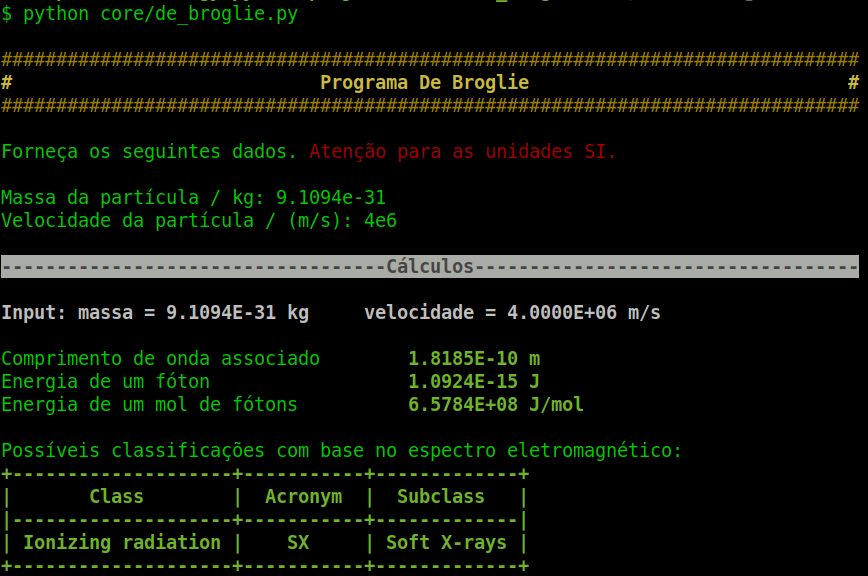
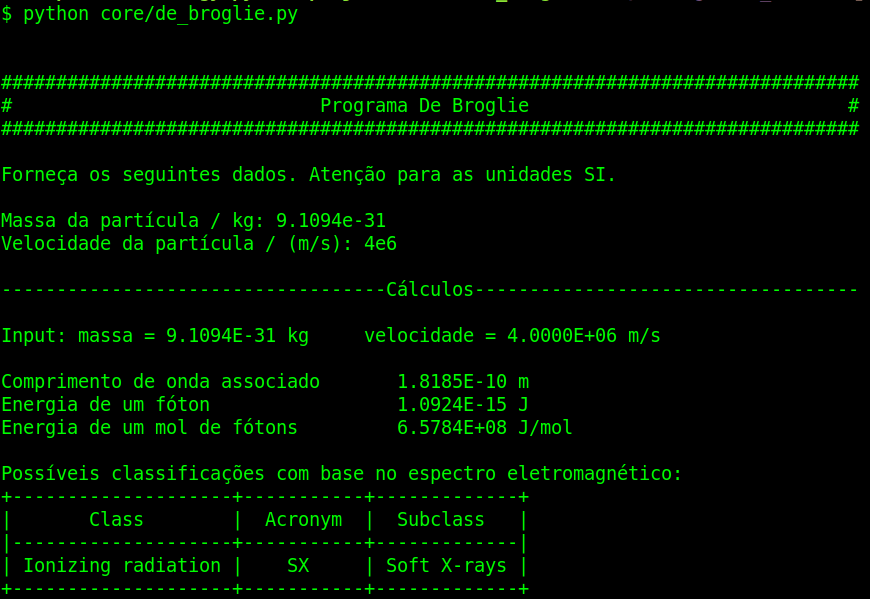
Atualizaçao do README, tirando citacao ao colorama e atualizando os screenshots

Changed region(s): [[0.0, 0.0938, 0.9954, 0.5], [0.0, 0.5312, 0.7776, 1.0], [0.0, 0.0, 0.3422, 0.0625]]

diff --git a/README.md b/README.md
@@ -7,7 +7,7 @@ eletromagnético. [Mais detalhes na Wikipedia](https://en.wikipedia.org/wiki/Mat
 # Dependências
 
 [SciPy](https://www.scipy.org/), [Pandas](https://pandas.pydata.org/),
-[tabulate](https://github.com/astanin/python-tabulate) e [colorama](https://github.com/tartley/colorama).
+[tabulate](https://github.com/astanin/python-tabulate).
 
 # Uso
 
